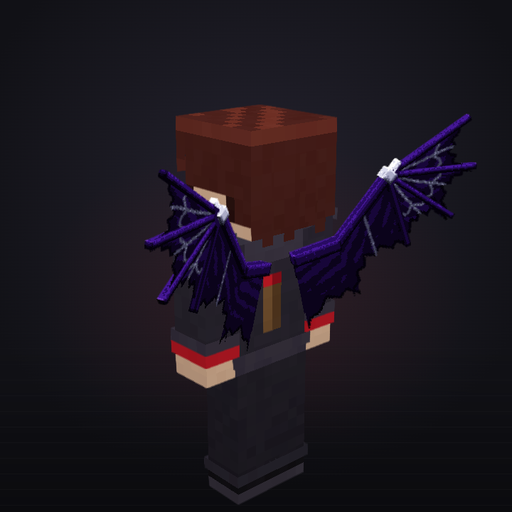
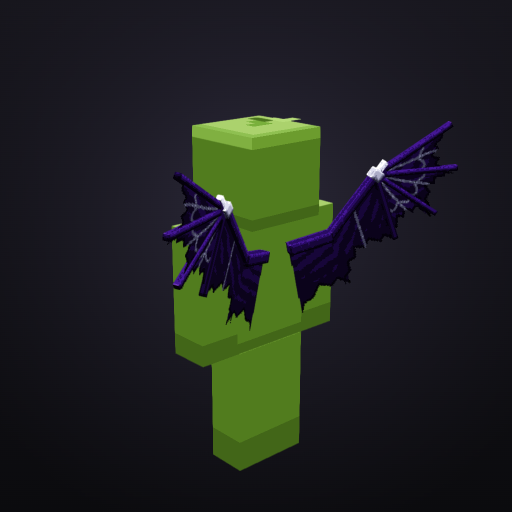
feat: Cosmetic cards show Cubi as the player
The card renderer uses the same Cubi skin as the website's 3D previews (app/utils/cubi-skin.ts) instead of its own brown-haired figure. Re-rendered the cards that show a player: aurora wings, shooting star, Mini-Cubi, bat buddy and the four reward wings.

Changed region(s): [[0.2812, 0.1875, 0.9375, 1.0]]

diff --git a/api/scripts/cosmetics-v2/harness.js b/api/scripts/cosmetics-v2/harness.js
@@ -5,48 +5,23 @@
 import * as THREE from 'three'
 import { SkinViewer } from 'skinview3d'
 import { applyDayNight, createCosmetic } from '/app/view.js'
+import { CUBI_SKIN_COLORS, cubiSkinPixels } from '/app/cubi-skin.js'
 
 const SIZE = 1024
 const canvas = document.createElement('canvas')
 document.body.appendChild(canvas)
 
-/** Eigene, schlichte Figur für die Karten: braune Haare, Kapuzenpulli in Cubiq-Navy mit grünem Saum. */
+/** Cubi als Figur für die Karten – derselbe Skin wie in den 3D-Vorschauen der Website (app/utils/cubi-skin.ts). */
 function skinCanvas() {
   const c = document.createElement('canvas')
   c.width = 64
   c.height = 64
   const g = c.getContext('2d')
-  const box = (x, y, w, h, color) => {
-    g.fillStyle = color
-    g.fillRect(x, y, w, h)
-  }
-  box(0, 0, 64, 64, 'rgba(0,0,0,0)')
-  // Kopf: Haut, Haare oben/hinten/seitlich, Augen
-  box(0, 8, 32, 8, '#d9a27c')
-  box(8, 0, 16, 8, '#4a2f1d')
-  box(0, 8, 8, 3, '#4a2f1d')
-  box(16, 8, 8, 3, '#4a2f1d')
-  box(24, 8, 8, 8, '#4a2f1d')
-  box(8, 8, 8, 2, '#4a2f1d')
-  box(9, 12, 2, 2, '#ffffff')
-  box(10, 12, 1, 2, '#2b4a7a')
-  box(13, 12, 2, 2, '#ffffff')
-  box(13, 12, 1, 2, '#2b4a7a')
-  box(11, 14, 2, 1, '#b5775a')
-  // Rumpf und Arme: Pulli
-  box(16, 16, 24, 16, '#26314d')
-  box(20, 30, 8, 2, '#71a330')
-  box(32, 30, 8, 2, '#71a330')
-  box(40, 16, 16, 16, '#26314d')
-  box(44, 30, 4, 2, '#d9a27c')
-  box(32, 48, 16, 16, '#26314d')
-  box(36, 62, 4, 2, '#d9a27c')
-  box(23, 21, 2, 3, '#71a330')
-  // Beine: Hose, Schuhe
-  box(0, 16, 16, 16, '#2c2c38')
-  box(0, 29, 16, 3, '#1a1a20')
-  box(16, 48, 16, 16, '#2c2c38')
-  box(16, 61, 16, 3, '#1a1a20')
+  cubiSkinPixels().forEach((row, y) => row.forEach((color, x) => {
+    if (!color) return
+    g.fillStyle = CUBI_SKIN_COLORS[color]
+    g.fillRect(x, y, 1, 1)
+  }))
   return c
 }
 
